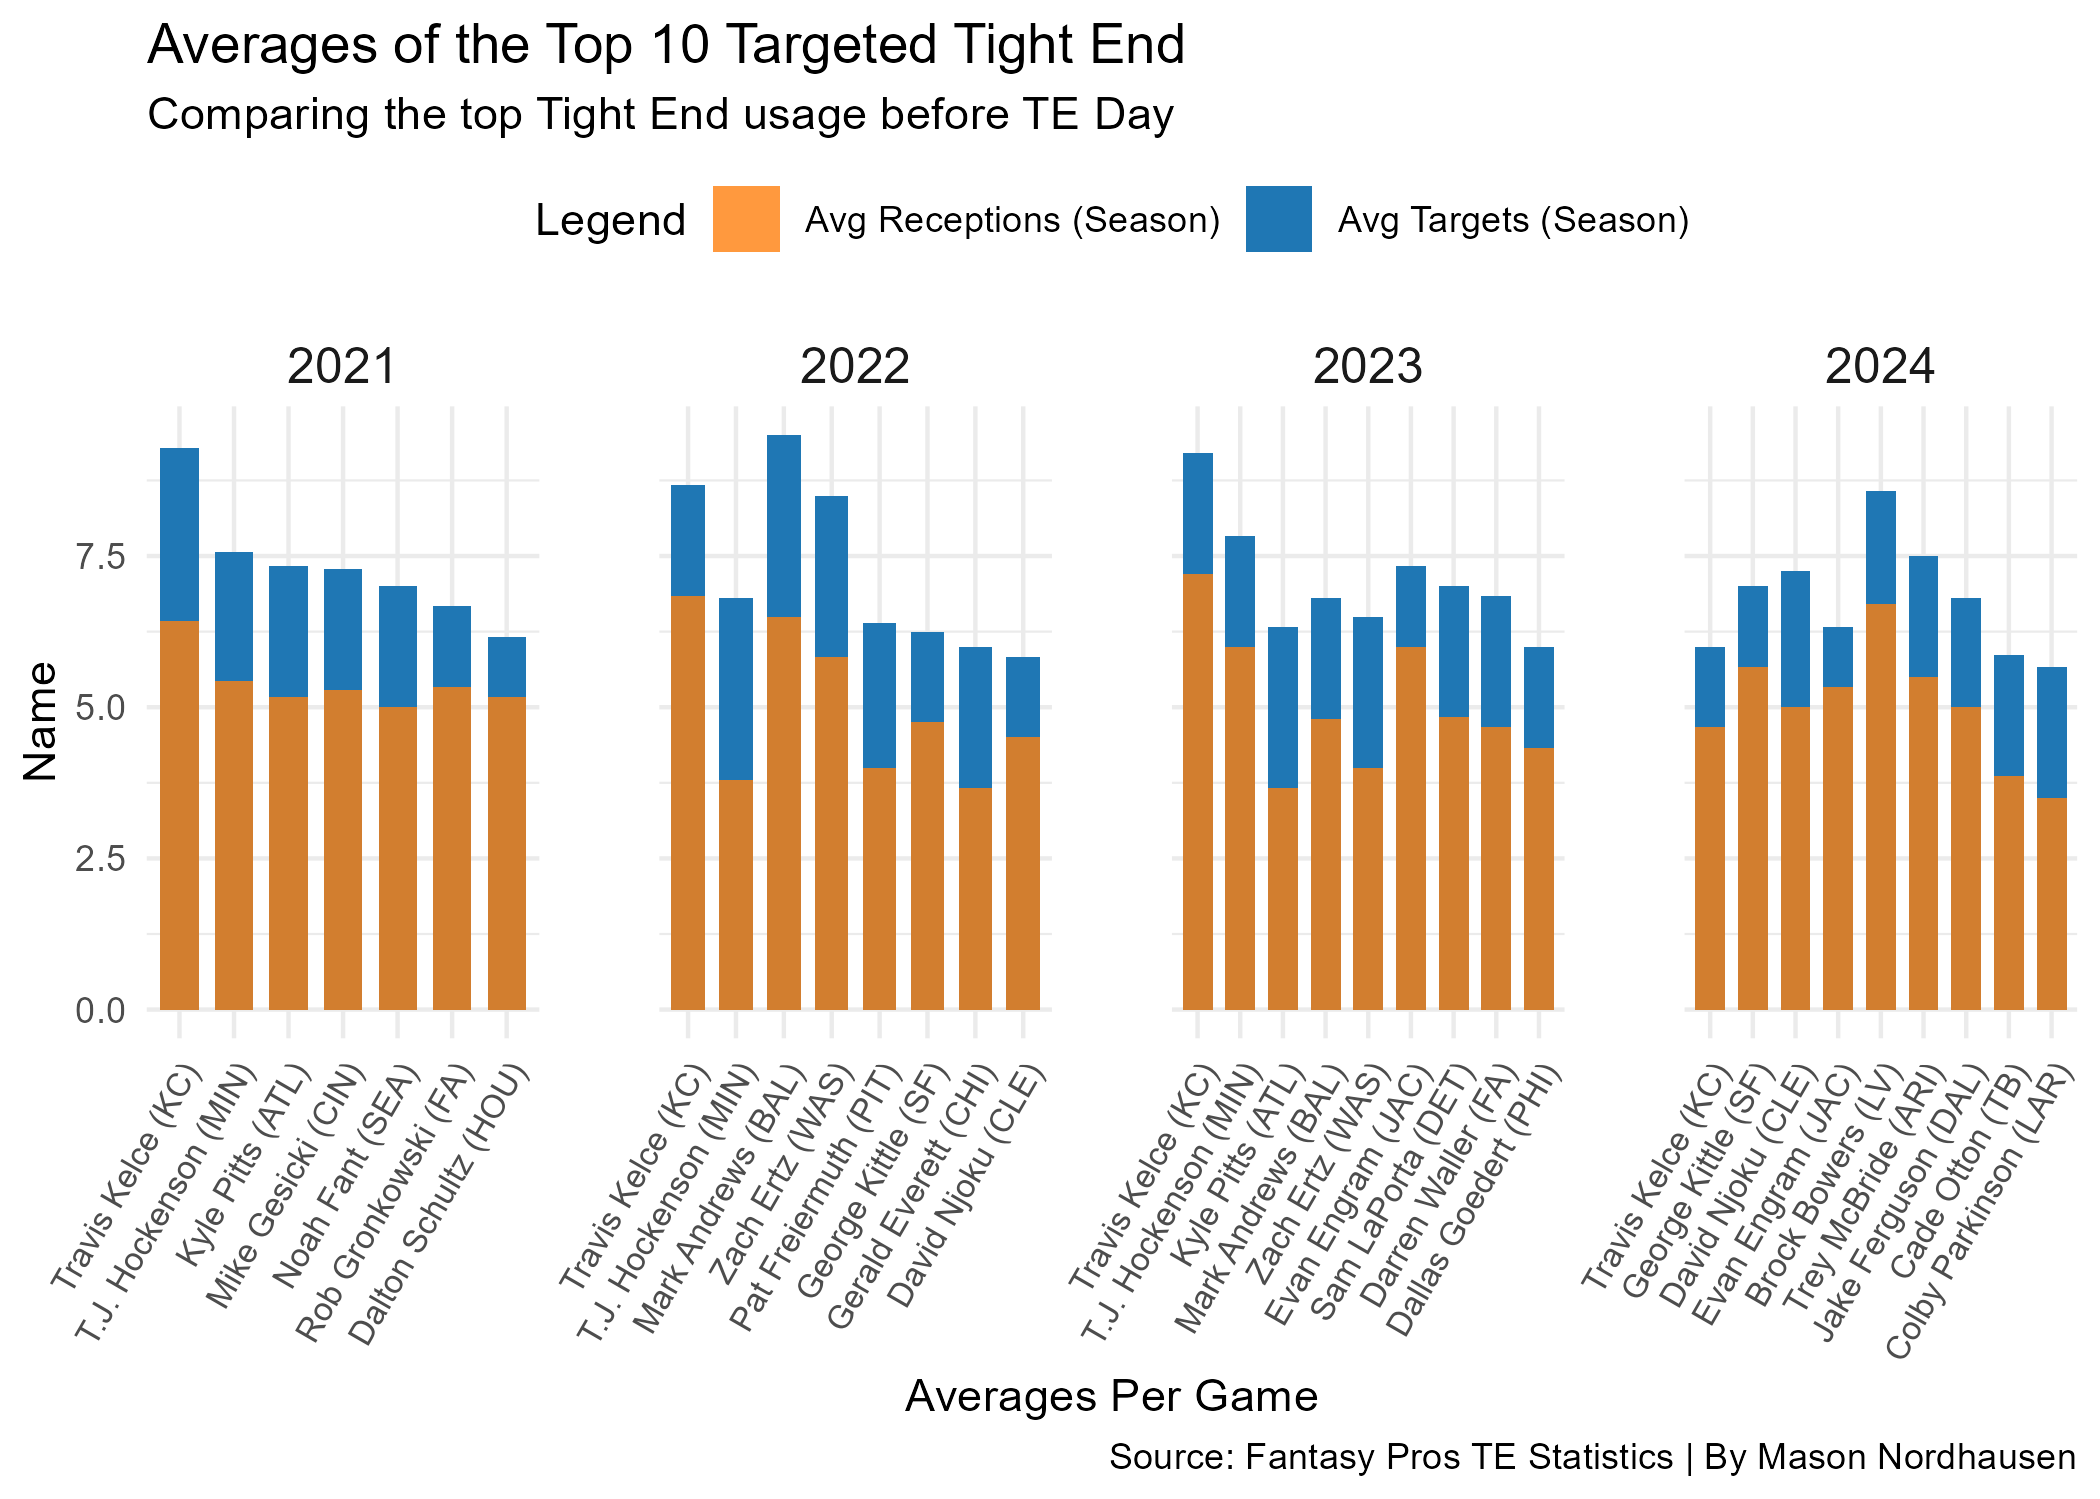
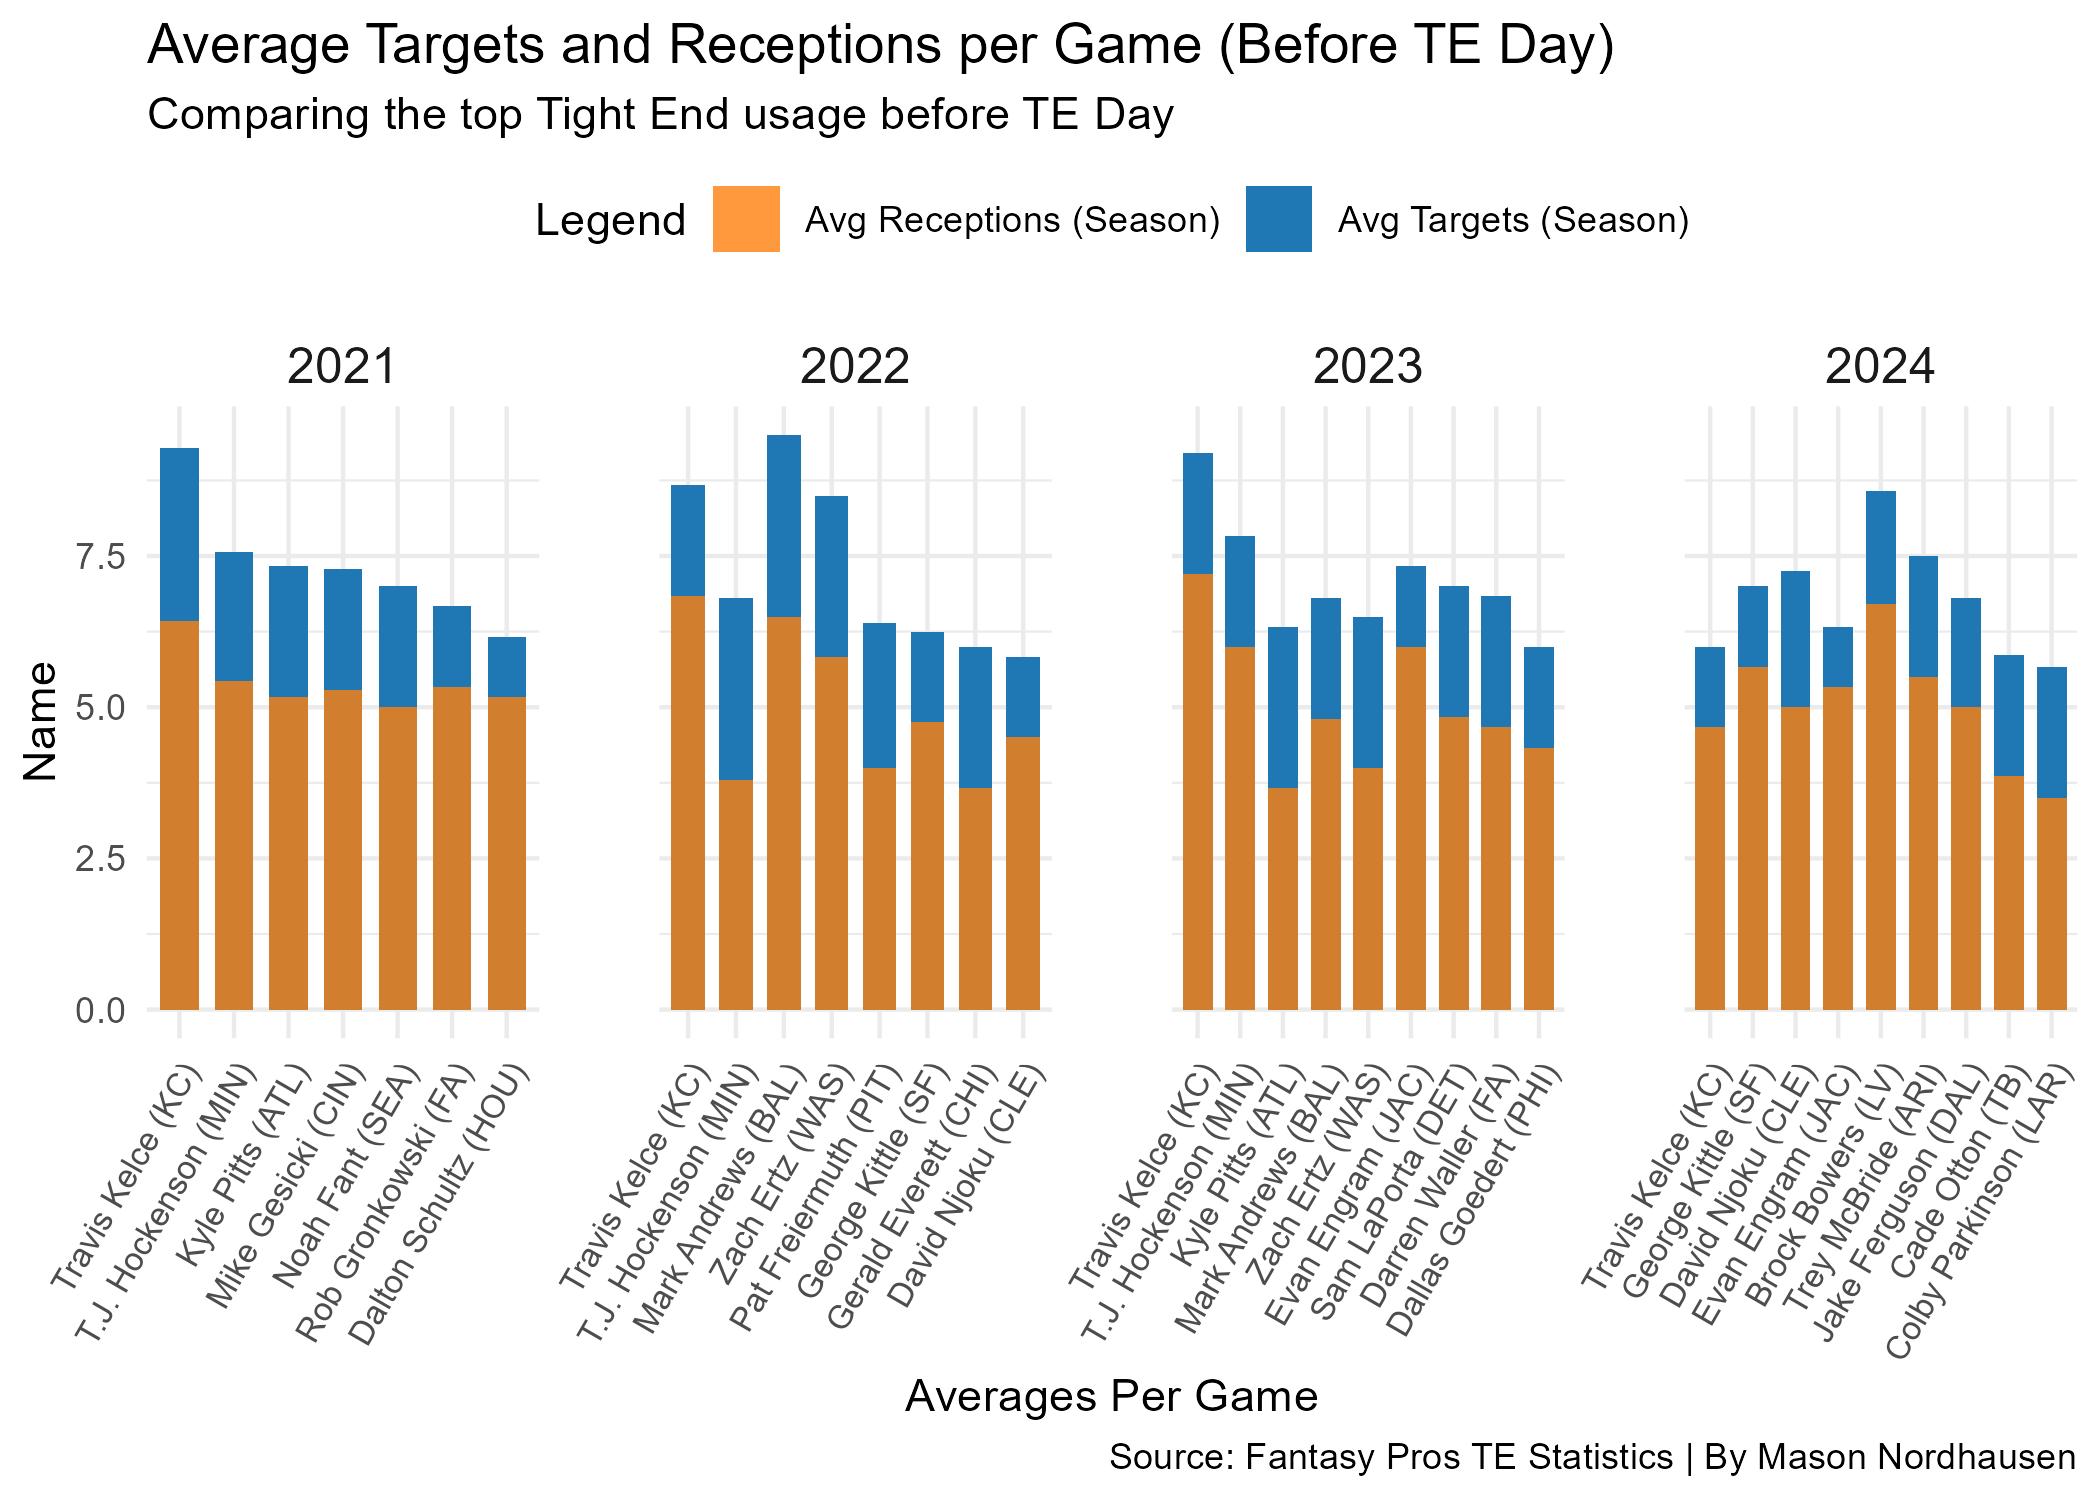
update index

Changed region(s): [[0.1548, 0.0, 0.7738, 0.0614]]

diff --git a/posts/TE-Day-Stat-Comparison/index.html b/posts/TE-Day-Stat-Comparison/index.html
@@ -188,10 +188,8 @@ pre > code.sourceCode > span > a:first-child::before { text-decoration: underlin
 <div class="cell">
 <details class="code-fold">
 <summary>Code</summary>
-<div class="sourceCode cell-code" id="cb1"><pre class="sourceCode r code-with-copy"><code class="sourceCode r"><span id="cb1-1"><a href="#cb1-1" aria-hidden="true" tabindex="-1"></a><span class="co">#|message: FALSE</span></span>
-<span id="cb1-2"><a href="#cb1-2" aria-hidden="true" tabindex="-1"></a><span class="co">#|warning: FALSE</span></span>
-<span id="cb1-3"><a href="#cb1-3" aria-hidden="true" tabindex="-1"></a></span>
-<span id="cb1-4"><a href="#cb1-4" aria-hidden="true" tabindex="-1"></a><span class="fu">library</span>(tidyverse)</span></code><button title="Copy to Clipboard" class="code-copy-button"><i class="bi"></i></button></pre></div>
+<div class="sourceCode cell-code" id="cb1"><pre class="sourceCode r code-with-copy"><code class="sourceCode r"><span id="cb1-1"><a href="#cb1-1" aria-hidden="true" tabindex="-1"></a><span class="co">#|include: FALSE</span></span>
+<span id="cb1-2"><a href="#cb1-2" aria-hidden="true" tabindex="-1"></a><span class="fu">library</span>(tidyverse)</span></code><button title="Copy to Clipboard" class="code-copy-button"><i class="bi"></i></button></pre></div>
 </details>
 <div class="cell-output cell-output-stderr">
 <pre><code>── Attaching core tidyverse packages ──────────────────────── tidyverse 2.0.0 ──
@@ -261,12 +259,13 @@ dbl (12): Rank, REC, TGT, YDS, Y/R, LG, 20+, TD, G, FPTS, FPTS/G, Year
 <span id="cb7-19"><a href="#cb7-19" aria-hidden="true" tabindex="-1"></a>  <span class="fu">arrange</span>(Year, <span class="sc">-</span>Avg_TGT_per_Game) <span class="sc">%&gt;%</span></span>
 <span id="cb7-20"><a href="#cb7-20" aria-hidden="true" tabindex="-1"></a>  <span class="fu">mutate</span>(<span class="at">Player =</span> <span class="fu">factor</span>(Player, <span class="at">levels =</span> <span class="fu">unique</span>(Player)))</span>
 <span id="cb7-21"><a href="#cb7-21" aria-hidden="true" tabindex="-1"></a><span class="co">#view(TEComparison)</span></span>
-<span id="cb7-22"><a href="#cb7-22" aria-hidden="true" tabindex="-1"></a><span class="co">#|include: FALSE</span></span></code><button title="Copy to Clipboard" class="code-copy-button"><i class="bi"></i></button></pre></div>
+<span id="cb7-22"><a href="#cb7-22" aria-hidden="true" tabindex="-1"></a></span>
+<span id="cb7-23"><a href="#cb7-23" aria-hidden="true" tabindex="-1"></a><span class="co">#|include: FALSE</span></span></code><button title="Copy to Clipboard" class="code-copy-button"><i class="bi"></i></button></pre></div>
 </details>
 </div>
 <p>In today’s NFL, quarterbacks and star wide receivers often steal the show, leaving the crucial yet under appreciated work of tight ends in the shadows. Tight ends are asked to block like offensive linemen, catch passes like wide-outs, and adapt to every situation, yet their efforts frequently go unnoticed. That changed in 2018 when George Kittle and his fellow 49ers humorously introduced “National Tight Ends Day,” a celebration that has since become a widely recognized event in the league. But beyond the festivities and social media buzz, a question remains: Does the attention surrounding TE Day translate into heightened performance on the field? Do tight ends rise to the occasion when they’re celebrated, or is it all just hype?</p>
 <p>In this article, we break down the numbers—analyzing targets, receptions, and fantasy points from 2021 to 2024—to determine if TE Day truly impacts player performance or if it’s simply a fun distraction for fans.</p>
-<p>To set the stage for this analysis, let’s first examine how tight ends have performed on average during the regular season, before TE Day, over the past four years. The chart below, Average Targets and Receptions per Game (Season), provides a comprehensive view of the top tight ends’ usage, showcasing their average targets and receptions per game for each year from 2021 to 2024. By separating the data year by year, we can see how consistently these elite tight ends, averaging five or more targets per game, have been utilized in their respective offenses and identify any noticeable trends or shifts in performance.</p>
+<p>To set the stage for this analysis, let’s first examine how tight ends have performed on average during the regular season, before TE Day, over the past four years. The chart below, Average Targets and Receptions per Game (Before TE Day), provides a comprehensive view of the top tight ends’ usage, showcasing their average targets and receptions per game for each year from 2021 to 2024. By separating the data year by year, we can see how consistently these elite tight ends, averaging five or more targets per game, have been utilized in their respective offenses and identify any noticeable trends or shifts in performance.</p>
 <div class="cell">
 <details class="code-fold">
 <summary>Code</summary>
@@ -286,7 +285,7 @@ dbl (12): Rank, REC, TGT, YDS, Y/R, LG, 20+, TD, G, FPTS, FPTS/G, Year
 <span id="cb8-14"><a href="#cb8-14" aria-hidden="true" tabindex="-1"></a>  <span class="fu">labs</span>(</span>
 <span id="cb8-15"><a href="#cb8-15" aria-hidden="true" tabindex="-1"></a>    <span class="at">x =</span> <span class="st">"Averages Per Game"</span>, </span>
 <span id="cb8-16"><a href="#cb8-16" aria-hidden="true" tabindex="-1"></a>    <span class="at">y =</span> <span class="st">"Name"</span>, </span>
-<span id="cb8-17"><a href="#cb8-17" aria-hidden="true" tabindex="-1"></a>    <span class="at">title =</span> <span class="st">"Averages of the Top 10 Targeted Tight End"</span>, </span>
+<span id="cb8-17"><a href="#cb8-17" aria-hidden="true" tabindex="-1"></a>    <span class="at">title =</span> <span class="st">"Average Targets and Receptions per Game (Before TE Day)"</span>, </span>
 <span id="cb8-18"><a href="#cb8-18" aria-hidden="true" tabindex="-1"></a>    <span class="at">subtitle =</span> <span class="st">"Comparing the top Tight End usage before TE Day"</span>, </span>
 <span id="cb8-19"><a href="#cb8-19" aria-hidden="true" tabindex="-1"></a>    <span class="at">caption =</span> <span class="st">"Source: Fantasy Pros TE Statistics | By Mason Nordhausen"</span></span>
 <span id="cb8-20"><a href="#cb8-20" aria-hidden="true" tabindex="-1"></a>  ) <span class="sc">+</span></span>
@@ -451,7 +450,7 @@ dbl (12): Rank, REC, TGT, YDS, Y/R, LG, 20+, TD, G, FPTS, FPTS/G, Year
 </div>
 <p>In 2021 and 2022, a striking pattern emerges: a larger proportion of tight ends fell short of their season average in fantasy points on TE Day. This under performance is especially pronounced in 2021, where only one tight end managed to exceed their average fantasy output. This suggests that TE Day in these years did not provide the expected boost in production, even for some of the top-performing players.</p>
 <p>In contrast, the waffle charts for 2023 and 2024 paint a more favorable picture. More than half of the tight ends who averaged over five targets per game during the season were able to outperform their usual fantasy points on TE Day. This improvement suggests that teams may have started to use their tight ends more effectively in these years, particularly in high-value scenarios like red zone opportunities. In fact, 2024 saw a record-breaking number of touchdowns scored by tight ends , underscoring the strategic emphasis on these players. The consistent involvement of these key players allowed them to make a more significant impact and contribute to game-changing plays.</p>
-<p>Ultimately, while TE Day has shown the potential to boost fantasy performance for certain elite players, it remains unpredictable and varies from year to year. For fantasy football managers, this means TE Day can offer great upside, but it comes with inherent risk. The day continues to evolve, and as it does, it will be fascinating to see whether the trend toward consistent, high-impact performances continues or if the excitement remains more of a gamble. As the tradition grows, one thing is certain: tight ends will have their moment, and fans will be watching closely to see if it pays off.</p>
+<p>Ultimately, while TE Day has shown the potential to boost fantasy performance for certain elite players, it remains unpredictable and varies from year to year. For fantasy football managers, this means TE Day can offer great upside, but it comes with inherent risk.In the future it will be fascinating to see whether TE Day can have a consistent, high impact performances or if the excitement remains more of a gamble. As the tradition grows, one thing is certain: tight ends will have their moment, and fans will be watching closely to see if it pays off.</p>
 
 
 

diff --git a/index.html b/index.html
@@ -200,7 +200,7 @@ window.Quarto = {
 
 <div class="quarto-listing quarto-listing-container-default" id="listing-listing">
 <div class="list quarto-listing-default">
-<div class="quarto-post image-right" data-index="0" data-categories="NFL,Fantasy Football,Football" data-listing-date-sort="1731823200000" data-listing-file-modified-sort="1731817586914" data-listing-date-modified-sort="NaN" data-listing-reading-time-sort="12" data-listing-word-count-sort="2275">
+<div class="quarto-post image-right" data-index="0" data-categories="NFL,Fantasy Football,Football" data-listing-date-sort="1731823200000" data-listing-file-modified-sort="1731862534555" data-listing-date-modified-sort="NaN" data-listing-reading-time-sort="12" data-listing-word-count-sort="2272">
 <div class="thumbnail">
 <p><a href="./posts/TE-Day-Stat-Comparison/index.html" class="no-external"></a></p><a href="./posts/TE-Day-Stat-Comparison/index.html" class="no-external">
 <p><img loading="lazy" src="./posts/TE-Day-Stat-Comparison/image.png" class="thumbnail-image"></p>
